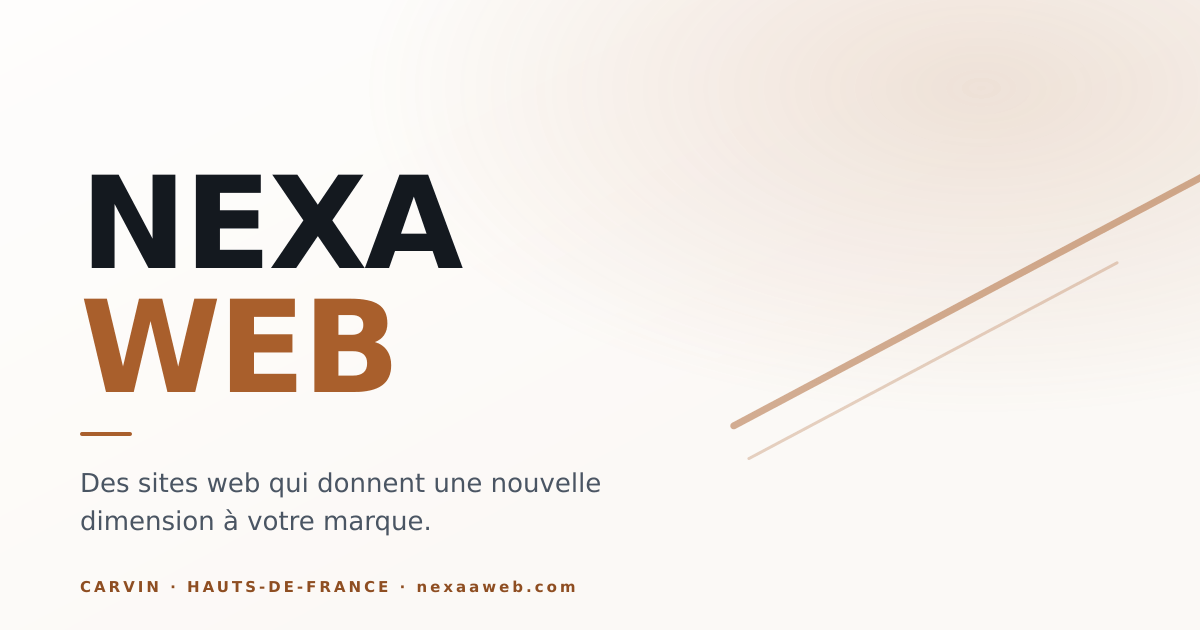
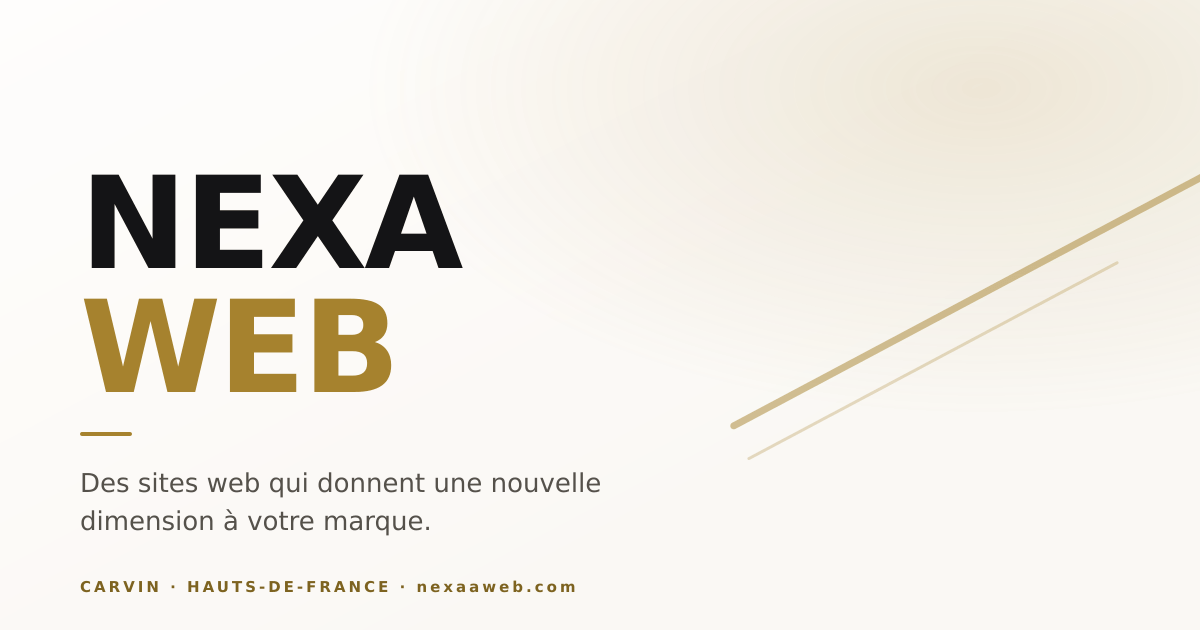
feat(palette): « Noir & Sable doré » remplace « Encre & Cuivre »
Noir neutre légèrement chaud + or sable mat. Direction cossue, contrastée,
joaillerie. Rien de bleu, rien de cuivré-rouge.

Comme les tokens sont centralisés, le changement se limite à
src/styles/tokens.css : palette brute renommée (ink/mist/slate/copper →
black/warm/stone/gold) et 4 blocs sémantiques recâblés. Aucun composant
touché — la preuve que l'extraction des couleurs de la refonte précédente
tenait. Les assets générés depuis les tokens (favicon, icônes PWA, images
OG, textures) sont régénérés par npm run build:assets.

Une correction à la palette fournie, mesurée et non estimée :
- --field-border tombait à 2,25:1 (sombre) et 2,20:1 (clair) sur --bg au
  lieu des 3,1 et 3,0 annoncés, et à 1,98:1 au pire sur --surface-2. Or
  c'est exactement le seuil WCAG 1.4.11 que ce token existe pour tenir.
  #4A4A52 → #6A6A73 et #B3A991 → #8F8670 : 3,24:1 et 3,16:1 au pire.
- --accent clair #A8842F donnait 2,99:1 sur --surface-2, à un cheveu du
  3:1 exigé pour une bordure de composant. #A6822E, deux points RVB plus
  sombre : 3,07:1 au pire, 3,38:1 sur --bg, et le CTA noir sur or reste à
  5,13:1. Écart imperceptible, règle tenue.

Tous les autres ratios annoncés sont confirmés au centième près.

Le bouton principal est noir sur or dans les deux thèmes, conformément à
la signature demandée : le composant ne change pas, --on-accent bascule
de #0A0A0B à #141416 et --accent de #D4B36A à #A6822E.

La distinction --accent / --accent-text reste le garde-fou du mode clair :
[…]

diff --git a/src/styles/tokens.css b/src/styles/tokens.css
@@ -24,60 +24,62 @@
         par un composant. Elles ne servent qu'au mapping sémantique (3).
      ───────────────────────────────────────────────────────────────────── */
 
-  /* Encre — bleu-nuit profond, jamais violet, jamais bleu roi */
-  --raw-ink-950:  #0B0F14;
-  --raw-ink-900:  #111720;
-  --raw-ink-800:  #18202B;
-  --raw-ink-700:  #232C38;
-  --raw-ink-600:  #33404F;
-  --raw-ink-500:  #606D7C;
-  --raw-ink-text: #14191F;
+  /* Noir — neutre, très légèrement chaud. Surtout PAS de noir pur #000 :
+     les ombres et les bordures y deviennent invisibles et le rendu dur. */
+  --raw-black-950: #0A0A0B;
+  --raw-black-900: #121214;
+  --raw-black-850: #1A1A1D;
+  --raw-black-800: #26262A;
+  --raw-black-700: #3A3A40;
+  --raw-black-600: #6A6A73;
+  --raw-black-ink: #141416;
 
-  /* Brume — les textes du mode sombre */
-  --raw-mist-50:  #EDF1F5;
-  --raw-mist-300: #9AA7B4;
-  --raw-mist-400: #7C8A99;
+  /* Blancs chauds — les textes du mode sombre */
+  --raw-warm-50:  #F4F2EE;
+  --raw-warm-300: #A8A49C;
+  --raw-warm-400: #888379;
 
-  /* Papier — crème ivoire, jamais blanc pur (le blanc pur est froid) */
+  /* Papier — crème chaud, jamais blanc pur (le blanc pur est froid) */
   --raw-paper-0:   #FFFFFF;
-  --raw-paper-50:  #FBF9F6;
-  --raw-paper-100: #F2EEE8;
-  --raw-sand-200:  #E4DDD3;
-  --raw-sand-300:  #CFC5B7;
+  --raw-paper-50:  #FAF8F4;
+  --raw-paper-100: #F1EDE5;
+  --raw-sand-200:  #E3DDD0;
+  --raw-sand-300:  #CFC7B5;
+  --raw-sand-500:  #8F8670;
 
-  /* Ardoise — les textes du mode clair */
-  --raw-slate-600: #4A5563;
-  --raw-slate-500: #626C7A;
-  --raw-sand-500:  #8A8378;
+  /* Gris chauds — les textes du mode clair */
+  --raw-stone-600: #55514A;
+  --raw-stone-500: #6E6960;
 
-  /* Cuivre — l'accent. Métal, tampon, savoir-faire. */
-  --raw-copper-300: #DB9A63;
-  --raw-copper-400: #C8834A;
-  --raw-copper-600: #AE6C38;
-  --raw-copper-700: #A95F2C;
-  --raw-copper-800: #8E4E22;
-  --raw-copper-900: #7A4219;
+  /* Or sable — l'accent. Métal mat, joaillerie, jamais cuivré-rouge. */
+  --raw-gold-300: #E3C684;
+  --raw-gold-400: #D4B36A;
+  --raw-gold-600: #B8974F;
+  --raw-gold-700: #A6822E;
+  --raw-gold-800: #7D6320;
+  --raw-gold-850: #8E6F26;
+  --raw-gold-900: #6B541B;
 
   /* Signalétique */
   --raw-green-d: #4C9A78;  --raw-green-l: #256345;
   --raw-amber-d: #D6A24B;  --raw-amber-l: #8A5E12;
   --raw-red-d:   #D46A5C;  --raw-red-l:   #B4453A;
 
-  /* Halos cuivre (8–14 % d'opacité, jamais dans le chemin du texte) */
-  --raw-glow-d: rgba(200, 131, 74, .14);
-  --raw-glow-l: rgba(169,  95, 44, .10);
+  /* Halos d'or (11–13 % d'opacité, jamais dans le chemin du texte) */
+  --raw-glow-d: rgba(212, 179, 106, .13);
+  --raw-glow-l: rgba(168, 132,  47, .11);
 
   /* Ombres — aucune ombre teintée couleur, aucune ombre en dur ailleurs */
-  --raw-shadow-1-d: 0 1px 2px rgba(0, 0, 0, .35);
-  --raw-shadow-2-d: 0 10px 30px rgba(0, 0, 0, .28);
-  --raw-shadow-1-l: 0 1px 2px rgba(20, 25, 31, .06);
-  --raw-shadow-2-l: 0 10px 30px rgba(20, 25, 31, .08);
+  --raw-shadow-1-d: 0 1px 2px rgba(0, 0, 0, .5);
+  --raw-shadow-2-d: 0 12px 32px rgba(0, 0, 0, .45);
+  --raw-shadow-1-l: 0 1px 2px rgba(20, 20, 22, .06);
+  --raw-shadow-2-l: 0 12px 32px rgba(20, 20, 22, .10);
 
   /* Voiles photographiques — indépendants du thème : ils vivent PAR-DESSUS
      une image sombre, dans les deux modes. */
   --on-media:        #FFFFFF;
-  --media-scrim-900: rgba(11, 15, 20, .94);
-  --media-scrim-600: rgba(11, 15, 20, .62);
+  --media-scrim-900: rgba(10, 10, 11, .94);
+  --media-scrim-600: rgba(10, 10, 11, .62);
   --media-tint:      rgba(255, 255, 255, .10);
   --media-tint-hi:   rgba(255, 255, 255, .18);
   --media-edge:      rgba(255, 255, 255, .16);
@@ -145,25 +147,25 @@
      ───────────────────────────────────────────────────────────────────── */
   color-scheme: dark;
 
-  --bg:            var(--raw-ink-950);
-  --surface:       var(--raw-ink-900);
-  --surface-2:     var(--raw-ink-800);
-  --border:        var(--raw-ink-700);
-  --border-strong: var(--raw-ink-600);
-  --field-border:  var(--raw-ink-500);
-  --text:          var(--raw-mist-50);
-  --text-muted:    var(--raw-mist-300);
-  --text-subtle:   var(--raw-mist-400);
-  --accent:        var(--raw-copper-400);
-  --accent-text:   var(--raw-copper-400);
-  --accent-hover:  var(--raw-copper-300);
-  --accent-active: var(--raw-copper-600);
-  --on-accent:     var(--raw-ink-950);
+  --bg:            var(--raw-black-950);
+  --surface:       var(--raw-black-900);
+  --surface-2:     var(--raw-black-850);
+  --border:        var(--raw-black-800);
+  --border-strong: var(--raw-black-700);
+  --field-border:  var(--raw-black-600);
+  --text:          var(--raw-warm-50);
+  --text-muted:    var(--raw-warm-300);
+  --text-subtle:   var(--raw-warm-400);
+  --accent:        var(--raw-gold-400);
+  --accent-text:   var(--raw-gold-400);
+  --accent-hover:  var(--raw-gold-300);
+  --accent-active: var(--raw-gold-600);
+  --on-accent:     var(--raw-black-950);
   --accent-glow:   var(--raw-glow-d);
   --success:       var(--raw-green-d);
   --warning:       var(--raw-amber-d);
   --danger:        var(--raw-red-d);
-  --focus:         var(--raw-copper-300);
+  --focus:         var(--raw-gold-300);
   --shadow-1:      var(--raw-shadow-1-d);
   --shadow-2:      var(--raw-shadow-2-d);
   --decor-opacity: .55;
@@ -184,19 +186,19 @@
     --border:        var(--raw-sand-200);
     --border-strong: var(--raw-sand-300);
     --field-border:  var(--raw-sand-500);
-    --text:          var(--raw-ink-text);
-    --text-muted:    var(--raw-slate-600);
-    --text-subtle:   var(--raw-slate-500);
-    --accent:        var(--raw-copper-700);
-    --accent-text:   var(--raw-copper-800);
-    --accent-hover:  var(--raw-copper-800);
-    --accent-active: var(--raw-copper-900);
-    --on-accent:     var(--raw-paper-0);
+    --text:          var(--raw-black-ink);
+    --text-muted:    var(--raw-stone-600);
+    --text-subtle:   var(--raw-stone-500);
+    --accent:        var(--raw-gold-700);
+    --accent-text:   var(--raw-gold-800);
+    --accent-hover:  var(--raw-gold-850);
+    --accent-active: var(--raw-gold-900);
+    --on-accent:     var(--raw-black-ink);
     --accent-glow:   var(--raw-glow-l);
     --success:       var(--raw-green-l);
     --warning:       var(--raw-amber-l);
     --danger:        var(--raw-red-l);
-    --focus:         var(--raw-copper-800);
+    --focus:         var(--raw-gold-800);
     --shadow-1:      var(--raw-shadow-1-l);
     --shadow-2:      var(--raw-shadow-2-l);
     --decor-opacity: .28;
@@ -215,19 +217,19 @@
   --border:        var(--raw-sand-200);
   --border-strong: var(--raw-sand-300);
   --field-border:  var(--raw-sand-500);
-  --text:          var(--raw-ink-text);
-  --text-muted:    var(--raw-slate-600);
-  --text-subtle:   var(--raw-slate-500);
-  --accent:        var(--raw-copper-700);
-  --accent-text:   var(--raw-copper-800);
-  --accent-hover:  var(--raw-copper-800);
-  --accent-active: var(--raw-copper-900);
-  --on-accent:     var(--raw-paper-0);
+  --text:          var(--raw-black-ink);
+  --text-muted:    var(--raw-stone-600);
+  --text-subtle:   var(--raw-stone-500);
+  --accent:        var(--raw-gold-700);
+  --accent-text:   var(--raw-gold-800);
+  --accent-hover:  var(--raw-gold-850);
+  --accent-active: var(--raw-gold-900);
+  --on-accent:     var(--raw-black-ink);
   --accent-glow:   var(--raw-glow-l);
   --success:       var(--raw-green-l);
   --warning:       var(--raw-amber-l);
   --danger:        var(--raw-red-l);
-  --focus:         var(--raw-copper-800);
+  --focus:         var(--raw-gold-800);
   --shadow-1:      var(--raw-shadow-1-l);
   --shadow-2:      var(--raw-shadow-2-l);
   --decor-opacity: .28;
@@ -240,25 +242,25 @@
 :root[data-theme="dark"] {
   color-scheme: dark;
 
-  --bg:            var(--raw-ink-950);
-  --surface:       var(--raw-ink-900);
-  --surface-2:     var(--raw-ink-800);
-  --border:        var(--raw-ink-700);
-  --border-strong: var(--raw-ink-600);
-  --field-border:  var(--raw-ink-500);
-  --text:          var(--raw-mist-50);
-  --text-muted:    var(--raw-mist-300);
-  --text-subtle:   var(--raw-mist-400);
-  --accent:        var(--raw-copper-400);
-  --accent-text:   var(--raw-copper-400);
-  --accent-hover:  var(--raw-copper-300);
-  --accent-active: var(--raw-copper-600);
-  --on-accent:     var(--raw-ink-950);
+  --bg:            var(--raw-black-950);
+  --surface:       var(--raw-black-900);
+  --surface-2:     var(--raw-black-850);
+  --border:        var(--raw-black-800);
+  --border-strong: var(--raw-black-700);
+  --field-border:  var(--raw-black-600);
+  --text:          var(--raw-warm-50);
+  --text-muted:    var(--raw-warm-300);
+  --text-subtle:   var(--raw-warm-400);
+  --accent:        var(--raw-gold-400);
+  --accent-text:   var(--raw-gold-400);
+  --accent-hover:  var(--raw-gold-300);
+  --accent-active: var(--raw-gold-600);
+  --on-accent:     var(--raw-black-950);
   --accent-glow:   var(--raw-glow-d);
   --success:       var(--raw-green-d);
   --warning:       var(--raw-amber-d);
   --danger:        var(--raw-red-d);
-  --focus:         var(--raw-copper-300);
+  --focus:         var(--raw-gold-300);
   --shadow-1:      var(--raw-shadow-1-d);
   --shadow-2:      var(--raw-shadow-2-d);
   --decor-opacity: .55;
